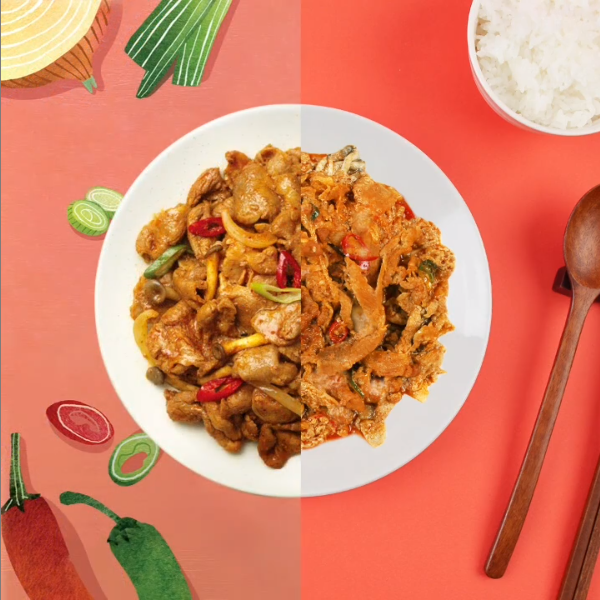
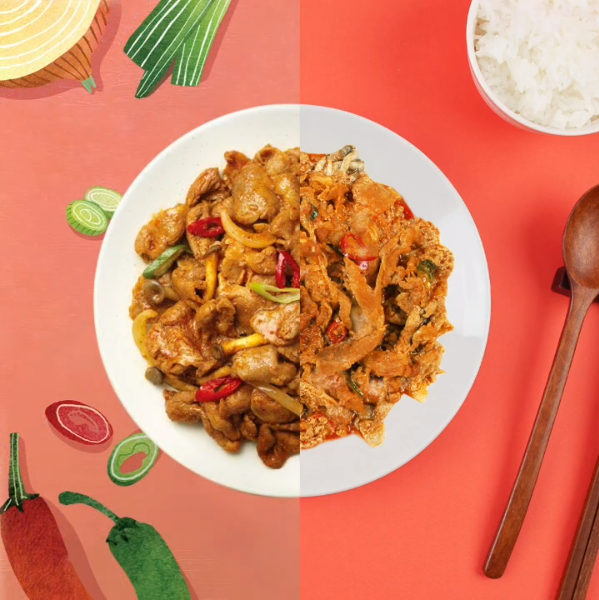
Convert images, fix slider

diff --git a/index.html b/index.html
@@ -11,12 +11,14 @@
   <link rel="stylesheet" href="css/normalize.css">
   <link rel="stylesheet" href="https://unpkg.com/swiper@7/swiper-bundle.min.css" />
   <link rel="stylesheet" href="css/styles.css">
+  <script src="https://unpkg.com/swiper@7/swiper-bundle.min.js" defer></script>
+  <script src="js/main.js" defer></script>
 </head>
 <body>
   <main>
     <header class="header container">
       <a href="/" class="logo header__logo">
-        <img src="img/logo.png" width="58" alt="logo" class="logo__image">
+        <img src="img/logo.png" width="58" height="58" alt="logo" class="logo__image">
         <span class="logo__text">ИНДЕКС<br>ЕДА</span>
       </a>
       <form action="#" class="search-form header__search-form">
@@ -67,8 +69,8 @@
         </div><!-- /.slide3 -->
       </div><!-- /.swiper-wrapper -->
       <div class="slider__buttons">
-        <button class="slider__button slider__button--left"></button>
-        <button class="slider__button slider__button--right"></button>
+        <button class="slider__button slider__button--left" aria-label="swipe left"></button>
+        <button class="slider__button slider__button--right" aria-label="swipe right"></button>
       </div>
     </section><!-- /.slider -->
     <div class="container">
@@ -109,35 +111,35 @@
       <h2 class="types__header">Доставка готовой еды на неделю</h2>
       <div class="types__cards">
         <div class="types__card">
-          <img class="types__card-image" src="img/cards/1.png" alt="ЗОЖ">
+          <img class="types__card-image" src="img/cards/1.jpg" alt="ЗОЖ">
           <span class="types__card-badge types__card-badge--healthy">ЗОЖ</span>
         </div><!-- /.types__card -->
         <div class="types__card">
-          <img class="types__card-image" src="img/cards/2.png" alt="Овощное">
+          <img class="types__card-image" src="img/cards/2.jpg" alt="Овощное">
           <span class="types__card-badge types__card-badge--vegetables">Овощное</span>
         </div><!-- /.types__card -->
         <div class="types__card">
-          <img class="types__card-image" src="img/cards/3.png" alt="Мясное">
+          <img class="types__card-image" src="img/cards/3.jpg" alt="Мясное">
           <span class="types__card-badge types__card-badge--meat">Мясное</span>
         </div><!-- /.types__card -->
         <div class="types__card">
-          <img class="types__card-image" src="img/cards/4.png" alt="Птица">
+          <img class="types__card-image" src="img/cards/4.jpg" alt="Птица">
           <span class="types__card-badge types__card-badge--poultry">Птица</span>
         </div><!-- /.types__card -->
         <div class="types__card">
-          <img class="types__card-image" src="img/cards/5.png" alt="Рыбное">
+          <img class="types__card-image" src="img/cards/5.jpg" alt="Рыбное">
           <span class="types__card-badge types__card-badge--fish">Рыбное</span>
         </div><!-- /.types__card -->
         <div class="types__card">
-          <img class="types__card-image" src="img/cards/6.png" alt="Детское">
+          <img class="types__card-image" src="img/cards/6.jpg" alt="Детское">
           <span class="types__card-badge types__card-badge--kids">Детское</span>
         </div><!-- /.types__card -->
         <div class="types__card">
-          <img class="types__card-image" src="img/cards/7.png" alt="Родителям">
+          <img class="types__card-image" src="img/cards/7.jpg" alt="Родителям">
           <span class="types__card-badge types__card-badge--parents">Родителям</span>
         </div><!-- /.types__card -->
         <div class="types__card">
-          <img class="types__card-image" src="img/cards/8.png" alt="Праздничное">
+          <img class="types__card-image" src="img/cards/8.jpg" alt="Праздничное">
           <span class="types__card-badge types__card-badge--holidays">Праздничное</span>
         </div><!-- /.types__card -->
       </div>
@@ -152,7 +154,7 @@
         </ul>
         <div class="food-categories__cards">
           <div class="food-categories__card food-card">
-            <img src="img/food_categories_card_image.png" alt="" class="food-card__image">
+            <img src="img/food_categories_card_image.jpg" alt="" class="food-card__image">
             <div class="food-card__content">
               <h3 class="food-card__title">Куриные крылья под соусом Терияки</h3>
               <p class="food-card__text">
@@ -169,7 +171,7 @@
             </div>
           </div><!-- /.food-categories__card -->
           <div class="food-categories__card food-card">
-            <img src="img/food_categories_card_image.png" alt="" class="food-card__image">
+            <img src="img/food_categories_card_image.jpg" alt="" class="food-card__image">
             <div class="food-card__content">
               <h3 class="food-card__title">Куриные крылья под соусом Терияки</h3>
               <p class="food-card__text">
@@ -186,7 +188,7 @@
             </div>
           </div><!-- /.food-categories__card -->
           <div class="food-categories__card food-card">
-            <img src="img/food_categories_card_image.png" alt="" class="food-card__image">
+            <img src="img/food_categories_card_image.jpg" alt="" class="food-card__image">
             <div class="food-card__content">
               <h3 class="food-card__title">Куриные крылья под соусом Терияки</h3>
               <p class="food-card__text">
@@ -203,7 +205,7 @@
             </div>
           </div><!-- /.food-categories__card -->
           <div class="food-categories__card food-card">
-            <img src="img/food_categories_card_image.png" alt="" class="food-card__image">
+            <img src="img/food_categories_card_image.jpg" alt="" class="food-card__image">
             <div class="food-card__content">
               <h3 class="food-card__title">Куриные крылья под соусом Терияки</h3>
               <p class="food-card__text">
@@ -227,7 +229,7 @@
       <h2 class="benefits__title">Наши преимущества</h2>
       <div class="benefits__cards">
         <div class="benefits__card">
-          <img src="img/benefits/1.svg" alt="" class="benefits__card-icon">
+          <img src="img/benefits/1.svg" width="60" height="58" alt="path" class="benefits__card-icon">
           <h3 class="benefits__card-title">Какой путь проходит ваша еда</h3>
           <p class="benefits__card-text">
             Вы делаете заказ на коробку
@@ -237,21 +239,21 @@
           </p>
         </div><!-- /.benefit__card -->
         <div class="benefits__card">
-          <img src="img/benefits/2.svg" alt="" class="benefits__card-icon">
+          <img src="img/benefits/2.svg" width="58" height="59" alt="basket" class="benefits__card-icon">
           <h3 class="benefits__card-title">Как происходит производство</h3>
           <p class="benefits__card-text">
             За день до доставки мы сами готовим блюда из натуральных продуктов без консервантов, красителей и гмо
           </p>
         </div><!-- /.benefit__card -->
         <div class="benefits__card">
-          <img src="img/benefits/3.svg" alt="" class="benefits__card-icon">
+          <img src="img/benefits/3.svg" width="60" height="56" alt="standards" class="benefits__card-icon">
           <h3 class="benefits__card-title">Высокие стандарты качества</h3>
           <p class="benefits__card-text">
             Наши повара с многолетним опытом с любовью готовят каждую порцию блюда
           </p>
         </div><!-- /.benefit__card -->
         <div class="benefits__card">
-          <img src="img/benefits/4.svg" alt="" class="benefits__card-icon">
+          <img src="img/benefits/4.svg" width="60" height="60" alt="delivery truck" class="benefits__card-icon">
           <h3 class="benefits__card-title">Быстрая и качественная доставка</h3>
           <p class="benefits__card-text">
             Сами доставим всё прямо
@@ -265,7 +267,7 @@
     <footer class="footer">
       <div class="container footer__content">
         <a href="/" class="logo footer__logo">
-          <img src="img/logo.png" width="58" alt="logo" class="logo__image">
+          <img src="img/logo.png" width="58" height="58" alt="logo" class="logo__image">
           <span class="logo__text">ИНДЕКС<br>ЕДА</span>
         </a>
         <div class="footer__links">
@@ -273,14 +275,12 @@
           <a href="#" class="footer__link">Напишите нам</a>
         </div><!-- /.footer_links -->
         <div class="social footer__social">
-          <a href="#" class="social__link"><img src="img/telegram.svg" alt="Telegram" class="social__img"></a>
-          <a href="#" class="social__link"><img src="img/vk.svg" alt="VK" class="social__img"></a>
-          <a href="#" class="social__link"><img src="img/instagram.svg" alt="Instagram" class="social__img"></a>
+          <a href="#" class="social__link"><img src="img/telegram.svg" width="17" height="14" alt="Telegram" class="social__img"></a>
+          <a href="#" class="social__link"><img src="img/vk.svg" width="16" height="9" alt="VK" class="social__img"></a>
+          <a href="#" class="social__link"><img src="img/instagram.svg" width="18" height="18" alt="Instagram" class="social__img"></a>
         </div><!-- /.social footer__social -->
       </div><!-- /.container -->
     </footer>
   </main>
-  <script src="https://unpkg.com/swiper@7/swiper-bundle.min.js"></script>
-  <script src="js/main.js"></script>
 </body>
 </html>

diff --git a/css/main.css b/css/main.css
@@ -262,17 +262,17 @@ body {
 
 .slide--1 {
   background: linear-gradient(90deg, rgba(0, 0, 0, 0.43) 40.45%, rgba(0, 0, 0, 0) 100%), 
-              url("../img/slide1.png") no-repeat 0 -76px / cover;
+              url("../img/slide1.jpg") no-repeat 65% center / cover;
 }
 
 .slide--2 {
   background: linear-gradient(90deg, rgba(0, 0, 0, 0.43) 40.45%, rgba(0, 0, 0, 0) 100%), 
-              url("../img/slide2.png") no-repeat 0 0 / cover;
+              url("../img/slide2.jpg") no-repeat right center / cover;
 }
 
 .slide--3 {
   background: linear-gradient(90deg, rgba(0, 0, 0, 0.43) 40.45%, rgba(0, 0, 0, 0) 100%), 
-              url("../img/slide3.png") no-repeat 0 -90px / cover;
+              url("../img/slide3.jpg") no-repeat right center / cover;
 }
 
 
@@ -344,12 +344,12 @@ body {
 /* Variants */
 .card--sweet {
   background: linear-gradient(0deg, rgba(0, 0, 0, 0.3), rgba(0, 0, 0, 0.3)),
-    url('../img/promo_sweet_basket.png') no-repeat center;
+    url('../img/promo_sweet_basket.jpg') no-repeat center;
   background-size: cover;
 }
 .card--minimum {
   background: linear-gradient(0deg, rgba(0, 0, 0, 0.3), rgba(0, 0, 0, 0.3)),
-    url('../img/promo_minimum.png') no-repeat center;
+    url('../img/promo_minimum.jpg') no-repeat center;
   background-size: cover;
 }
 

diff --git a/css/media-queries.css b/css/media-queries.css
@@ -58,11 +58,27 @@
 }
 
 @media screen and (max-width: 576px) {
+  .container {
+    max-width: calc(100vw - 30px);
+  }
+  .header__cart {
+    margin-left: 2.6vw;
+  }
+  .slide__content {
+    min-height: 280px;
+  }
   .slide__title {
-    font-size: calc(20px + 4vw);
+    font-size: calc(18px + 4vw);
+  }
+  .slide__button {
+    padding-left: 8vw;
+    padding-right: 8vw;
   }
   .types__card {
     flex-basis: 100%;
+  }
+  .promo {
+    margin-top: 4.18vw;
   }
   .food-categories__tabs {
     flex-direction: column;
